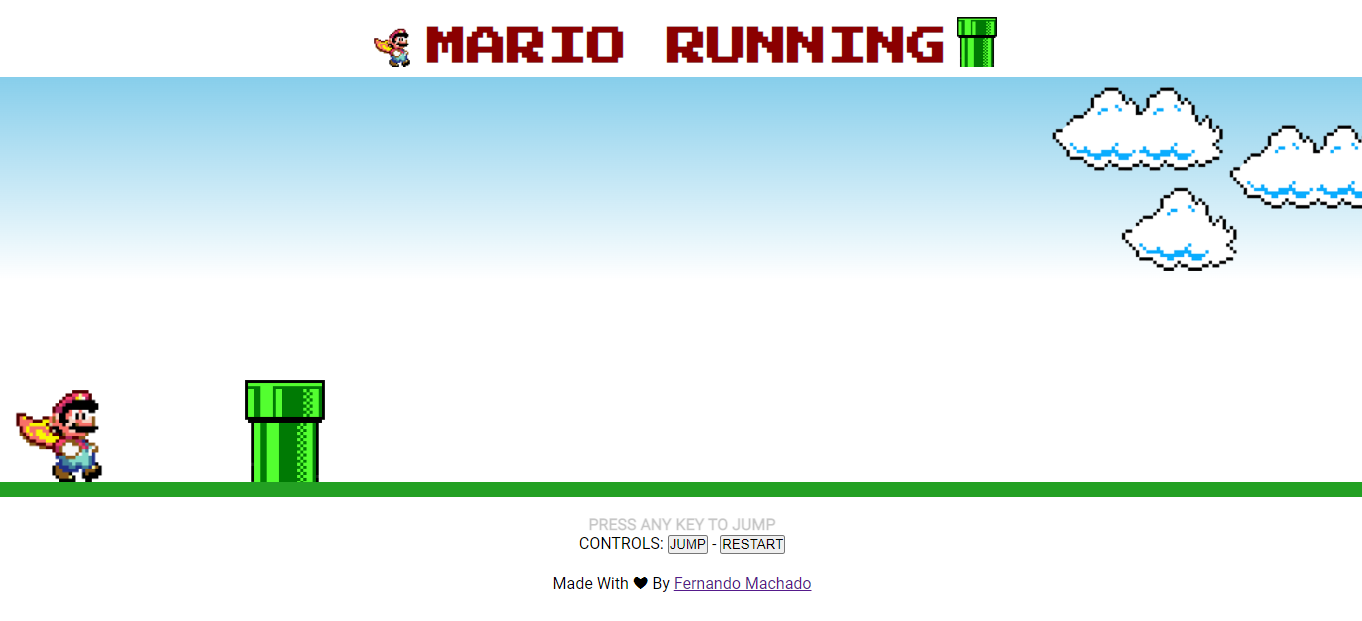
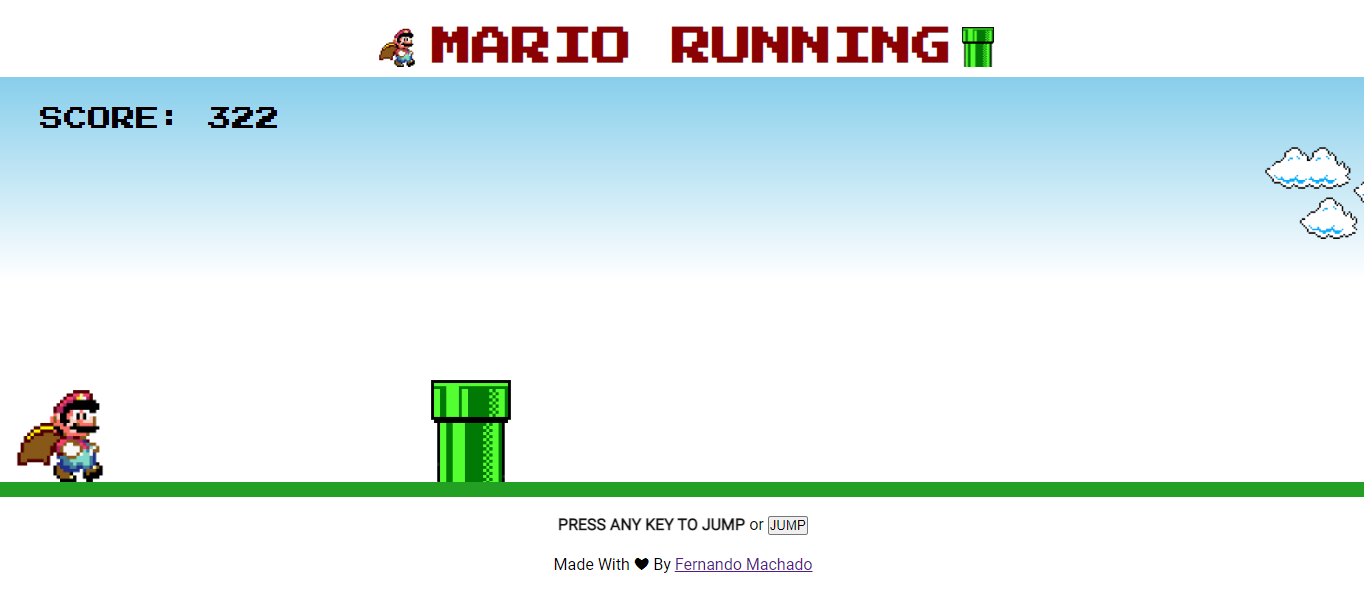
Add files via upload

diff --git a/js/script.js b/js/script.js
@@ -1,44 +1,40 @@
-/* Created By Fernando Machado
-    My github: https://github.com/fmachadoweb
-    */
+const mario = document.querySelector(".mario");
+const pipe = document.querySelector(".pipe");
+const score = document.querySelector(".score");
+let alreadyJump = false;
+let count = 0;
 
-const mario = document.querySelector('.mario');
-const pipe = document.querySelector('.pipe');
+document.addEventListener("keydown", (e) => {
+  if ((e.code === "ArrowUp") | (e.code === "Space")) {
+    jump();
+  }
+});
 
+function jump() {
+  if (!mario.classList.contains("jump")) {
+    mario.classList.add("jump");
+    alreadyJump = true;
 
-const jump = () => {
-    mario.classList.add('jump');
-
-    setTimeout (() => {
-        mario.classList.remove('jump');
-    }, 500);
+    setTimeout(() => {
+      mario.classList.remove("jump");
+      alreadyJump = false;
+    }, 1100);
+  }
 }
 
+setInterval(() => {
+  let marioBottom = parseInt(
+    window.getComputedStyle(mario).getPropertyValue("bottom")
+  );
+  let pipeLeft = parseInt(
+    window.getComputedStyle(pipe).getPropertyValue("left")
+  );
 
-const loop = setInterval(() => {
+  if (pipeLeft > 40 && pipeLeft < 120 && marioBottom <= 50 && !alreadyJump) {
+    alert(`Game Over! Seu score foi: ${count}`);
+    count = 0;
+  }
 
-    const pipePosition = pipe.offsetLeft;
-    const marioPosition = +window.getComputedStyle(mario).bottom.replace('px', '');
-
-
-    if (pipePosition <= 120 && pipePosition > 0 && marioPosition < 200) {
-
-        pipe.style.animation ='none';
-        pipe.style.left = `${pipePosition}px`;
-
-        mario.style.animation ='none';
-        mario.style.bottom = `${pipePosition}px`;
-
-        mario.src ='./img/game-over.png';
-        mario.style.width = "120px";
-        mario.style.marginLeft = "50px";
-
-        clearInterval(loop);
-
-    }
-
+  count++;
+  score.innerHTML = `SCORE: ${count}`;
 }, 10);
-
-document.addEventListener('keydown', jump);
-
-

diff --git a/index.html b/index.html
@@ -23,18 +23,18 @@ My github: https://github.com/fmachadoweb
           <embed src="./media/sound.mp3" loop="true" autostart="true" width="2" height="0">
 
     <div align="center">
-        <h1 style="color: darkred;"><img src="./img/mario.gif" height="50px"> <span>MARIO RUNNING</span> <img src="./img/pipe.png" height="50px"></h1>
+        <h1 style="color: darkred;"><img src="./img/mario.gif" height="50px"> <span>MARIO RUNNING</span> <img src="./img/pipe.png" height="40px"></h1>
     </div>
 
     <div class="game-board">
+		<span class="score"></span>
         <img src="./img/clouds.png" class="clouds">
         <img src="./img/pipe.png" class="pipe">
         <img src="./img/mario.gif" class="mario">
     </div>
 
 <div><br />
-    <div><p align="center" ><strong class="fa-blink">PRESS ANY KEY TO JUMP</strong> <br /> 
-        CONTROLS: <button onclick="jump()">JUMP</button> - <a href="index.html"><button>RESTART</button></a><br />
+    <div><p align="center" ><strong class="fa-blink">PRESS SPACE BAR TO JUMP</strong> OR <button onclick="jump()">JUMP</button><br />
 
 		</p>  <br />
 		

diff --git a/css/style.css b/css/style.css
@@ -39,6 +39,12 @@ audio { display:none;}
     animation: pipe-animation 2s infinite linear;
 }
 
+.score {
+  position: absolute;
+  top: 30px;
+  left: 40px;
+  font-size: x-large;
+}
 
 
 .mario {
@@ -53,8 +59,8 @@ audio { display:none;}
 
 .clouds {
     position: absolute;
-    width: 400px;
-    margin-top: 10px;
+    width: 200px;
+    margin-top: 70px;
     animation: clouds-animation 20s infinite linear;
 }
 
@@ -93,7 +99,7 @@ audio { display:none;}
 
 @keyframes clouds-animation {
     from {
-        right: -400px;
+        right: -200px;
     }
 
     to {
